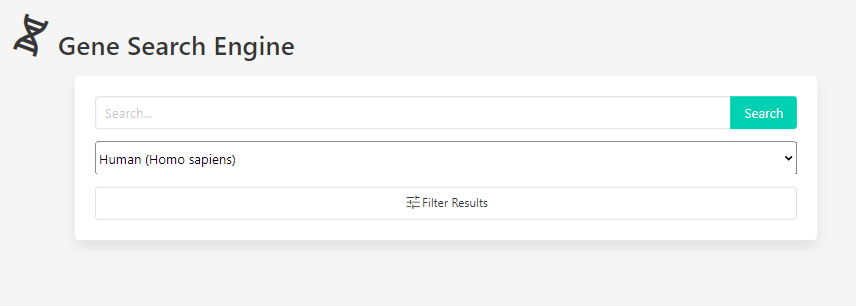
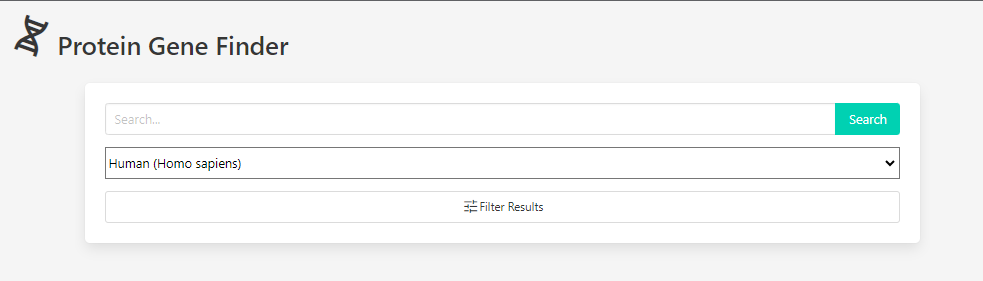
readme text and images updated according new project name

diff --git a/README.md b/README.md
@@ -1,10 +1,10 @@
-# Gene Search Engine
+# Protein Gene Finder
 
-https://leopoldogurgel.github.io/geneSearchProject/
+https://leopoldogurgel.github.io/proteingenefinder/
 
 ## DESCRIPTION
 
-The Gene Search Engine is a powerful tool that uses server side APIs information to simplify the process of searching for genes and related genetic information. This repository contains the source code for the Gene Search Engine application.
+The Protein Gene Finder is a powerful tool that uses server side APIs information to simplify the process of searching for protein genes and related genetic information. This repository contains the source code for the Protein Gene Finder application.
 
 ![Alt text](./assets/images/landingPage.png "Page screenshot")
 
